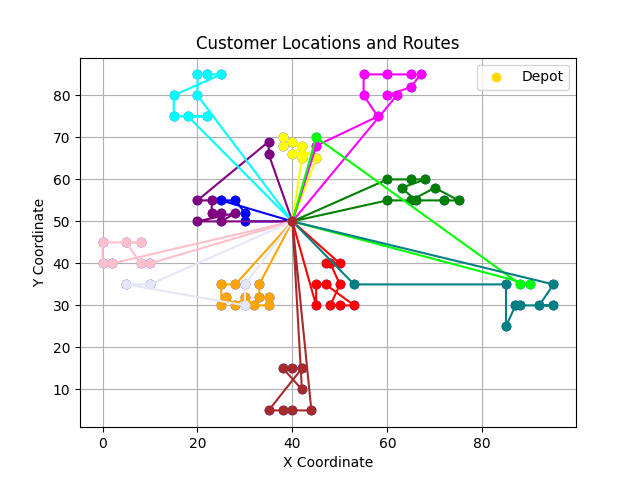
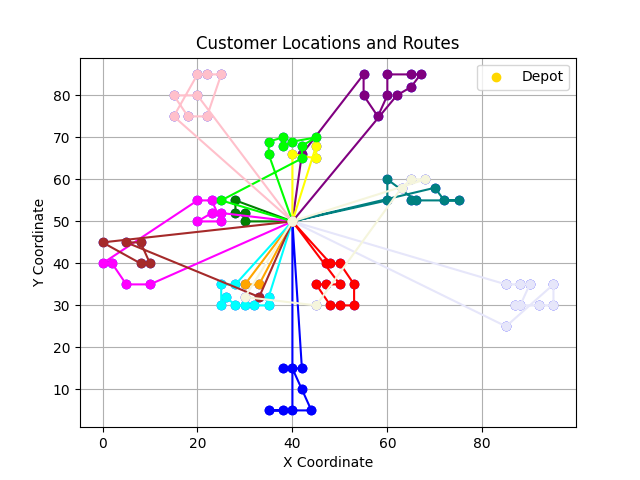
made a separate local search file

Changed region(s): [[0.1562, 0.125, 0.875, 0.875], [0.6875, 0.4688, 0.7188, 0.5]]

diff --git a/Solve.py b/Solve.py
@@ -1,6 +1,6 @@
 """
 file: Solve.py
-description: This program consists of implementation of Ant Colony Optimization and local saerch procedure
+description: This program consists of implementation of local search procedure
 language: python3
 author: Sanish Suwal(ss4657@rit.edu), Jay Nair(an1147@rit.edu), Bhavdeep Khileri(bk2281@rit.edu)
 """
@@ -11,6 +11,7 @@ import random
 from graph import Graph
 from Agent import Agent
 from figure import plot_customers_and_routes
+from localsearch import apply_local_search
 import time
 
 
@@ -113,7 +114,7 @@ class ACO:
                 = self.find_best_path(paths_distance, ants, start_iteration, iter, start_time, i)
 
             # local search procedure to refine the paths and distance found by the ants
-            self.apply_local_search(ants, self.graph.customer_distance_matrix)
+            apply_local_search(ants, self.graph.customer_distance_matrix)
 
             # Update global pheromone
             self.graph.update_global_pheromone(self.best_path, self.best_distance)
@@ -184,110 +185,10 @@ class ACO:
             index = int(N * random.random())
             if random.random() <= normal_transition_prob[index]: return indexes[index]
 
-    def two_opt_move(self, route, distance_matrix):
-        """
-        Tries all 2 opt moves in the route and returns the best route and its corresponding distance
-        Removes two non-adjacent edges from a route and reconnects the two resulting sub-routes in the opposite order.
-        :param route: route
-        :param distance_matrix: the distance matrix
-        :return: best route and its corresponding distance
-        """
-        best_route = route.copy()
-        best_distance = self.calculate_route_distance(best_route, distance_matrix)
-
-        for i in range(1, len(route) - 2):
-            for j in range(i + 1, len(route)):
-                new_route = route.copy()
-                # reverse a route in path
-                new_route[i:j] = reversed(new_route[i:j])
-                # evaluate new route
-                new_distance = self.calculate_route_distance(new_route, distance_matrix)
-
-                # compare current and new route
-                if new_distance < best_distance:
-                    best_route = new_route
-                    best_distance = new_distance
-
-        return best_route, best_distance
-
-    def calculate_route_distance(self,route, distance_matrix):
-        """
-        Calculate the total distance of given route,
-        :param route: route
-        :param distance_matrix: distance matrix
-        :return:total distance
-        """
-        total_distance = 0
-        for i in range(len(route) - 1):
-            node1, node2 = route[i], route[i + 1]
-            total_distance += distance_matrix[node1][node2]
-        return total_distance
-
-    def apply_local_search(self, ants, distance_matrix):
-        """
-        Applies local search procedure to all ants after the tour is complete
-        :param ants: ants
-        :param distance_matrix: distance matrix
-        :return: None
-        """
-        for ant in ants:
-            path = ant.path
-            routes = self.get_routes_from_path(path)
-            improved_routes = []
-
-            for route in routes:
-                # apply two opt algorithm
-                improved_route, improved_distance = self.two_opt_move(route, distance_matrix)
-                improved_routes.append(improved_route)
-
-            # combine all routes to path
-            ant.path = self.flatten_routes(improved_routes)
-            ant.total_distance = self.calculate_path_distance(ant.path, distance_matrix)
-
-    def get_routes_from_path(self, path):
-        """
-        Separates the path into individual routes, where each route starts and ends at the depot
-        :param path: Path
-        :return: a list of routes
-        """
-        routes = []
-        current_route = []
-        for node in path:
-            if node == 0:
-                if current_route:
-                    routes.append(current_route)
-                    current_route = []
-            else:
-                current_route.append(node)
-        if current_route:
-            routes.append(current_route)
-        return routes
-
-    def flatten_routes(self, routes):
-        """
-        combines all the individual routes into a single path by flattening the list of routes,
-        :param routes: routes
-        :return: Single path
-        """
-        flattened_path = []
-        for route in routes:
-            flattened_path.extend(route)
-            flattened_path.append(0)
-        return flattened_path[:-1]
 
 
-    def calculate_path_distance(self,path, distance_matrix):
-        """
-        Calculates the total distance of the given path by summing the distances between consecutive nodes in the path,
-        :param path: path
-        :param distance_matrix: distance matrix
-        :return:
-        """
-        total_distance = 0
-        for i in range(len(path) - 1):
-            node1, node2 = path[i], path[i + 1]
-            total_distance += distance_matrix[node1][node2]
-        return total_distance
+
+
 
 
 

diff --git a/localsearch.py b/localsearch.py
@@ -1,0 +1,112 @@
+"""
+file: localsearch.py
+description: This program consists of implementation of local search procedure
+language: python3
+author: Sanish Suwal(ss4657@rit.edu), Jay Nair(an1147@rit.edu), Bhavdeep Khileri(bk2281@rit.edu)
+"""
+def apply_local_search(ants, distance_matrix):
+    """
+    Applies local search procedure to all ants after the tour is complete
+    :param ants: ants
+    :param distance_matrix: distance matrix
+    :return: None
+    """
+    for ant in ants:
+        path = ant.path
+        routes = get_routes_from_path(path)
+        improved_routes = []
+
+        for route in routes:
+            # apply two opt algorithm
+            improved_route, improved_distance = two_opt_move(route, distance_matrix)
+            improved_routes.append(improved_route)
+
+        # combine all routes to path
+        ant.path = flatten_routes(improved_routes)
+        ant.total_distance = calculate_path_distance(ant.path, distance_matrix)
+
+
+def get_routes_from_path(path):
+    """
+    Separates the path into individual routes, where each route starts and ends at the depot
+    :param path: Path
+    :return: a list of routes
+    """
+    routes = []
+    current_route = []
+    for node in path:
+        if node == 0:
+            if current_route:
+                routes.append(current_route)
+                current_route = []
+        else:
+            current_route.append(node)
+    if current_route:
+        routes.append(current_route)
+    return routes
+
+
+def flatten_routes(routes):
+    """
+    combines all the individual routes into a single path by flattening the list of routes,
+    :param routes: routes
+    :return: Single path
+    """
+    flattened_path = []
+    for route in routes:
+        flattened_path.extend(route)
+        flattened_path.append(0)
+    return flattened_path[:-1]
+
+
+def calculate_path_distance(path, distance_matrix):
+    """
+    Calculates the total distance of the given path by summing the distances between consecutive nodes in the path,
+    :param path: path
+    :param distance_matrix: distance matrix
+    :return:
+    """
+    total_distance = 0
+    for i in range(len(path) - 1):
+        node1, node2 = path[i], path[i + 1]
+        total_distance += distance_matrix[node1][node2]
+    return total_distance
+
+def two_opt_move(route, distance_matrix):
+    """
+    Tries all 2 opt moves in the route and returns the best route and its corresponding distance
+    Removes two non-adjacent edges from a route and reconnects the two resulting sub-routes in the opposite order.
+    :param route: route
+    :param distance_matrix: the distance matrix
+    :return: best route and its corresponding distance
+    """
+    best_route = route.copy()
+    best_distance = calculate_route_distance(best_route, distance_matrix)
+
+    for i in range(1, len(route) - 2):
+        for j in range(i + 1, len(route)):
+            new_route = route.copy()
+            # reverse a route in path
+            new_route[i:j] = reversed(new_route[i:j])
+            # evaluate new route
+            new_distance = calculate_route_distance(new_route, distance_matrix)
+
+            # compare current and new route
+            if new_distance < best_distance:
+                best_route = new_route
+                best_distance = new_distance
+
+    return best_route, best_distance
+
+def calculate_route_distance(route, distance_matrix):
+    """
+    Calculate the total distance of given route,
+    :param route: route
+    :param distance_matrix: distance matrix
+    :return:total distance
+    """
+    total_distance = 0
+    for i in range(len(route) - 1):
+        node1, node2 = route[i], route[i + 1]
+        total_distance += distance_matrix[node1][node2]
+    return total_distance

diff --git a/main.py b/main.py
@@ -16,7 +16,7 @@ if __name__ == '__main__':
     maximum_iteration = 10000
     beta = 2
     q0 = 0.1
-    num_trails = 30
+    num_trails = 1
     distance_list = np.zeros(num_trails)
     vehicle_list = np.zeros(num_trails)
 
